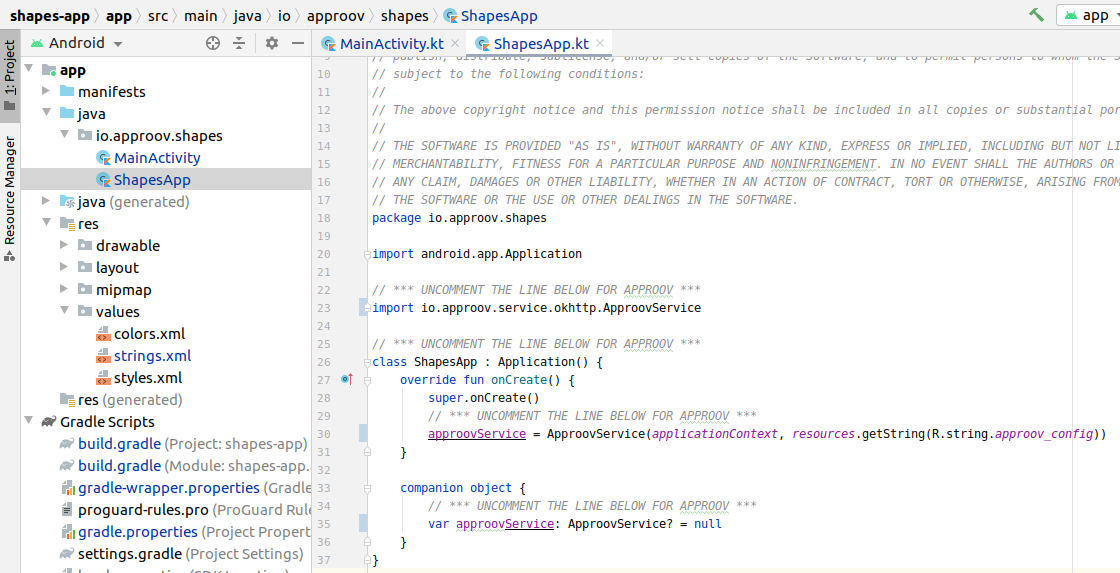
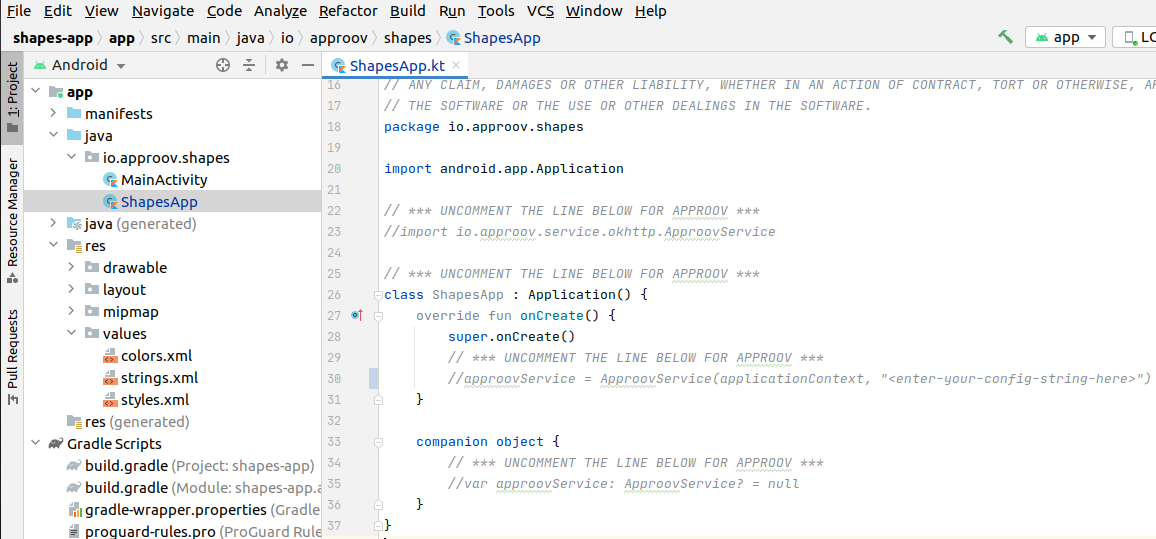
Use short init string

Changed region(s): [[0.0, 0.0, 1.0, 1.0], [0.3438, 0.8015, 0.7188, 0.9499]]

diff --git a/shapes-app/app/src/main/java/io/approov/shapes/ShapesApp.kt b/shapes-app/app/src/main/java/io/approov/shapes/ShapesApp.kt
@@ -27,7 +27,7 @@ class ShapesApp : Application() {
     override fun onCreate() {
         super.onCreate()
         // *** UNCOMMENT THE LINE BELOW FOR APPROOV ***
-        //approovService = ApproovService(applicationContext, resources.getString(R.string.approov_config))
+        //approovService = ApproovService(applicationContext, "<enter-your-config-string-here>")
     }
 
     companion object {

diff --git a/README.md b/README.md
@@ -2,6 +2,10 @@
 
 This quickstart is written specifically for native Android apps that are written in Kotlin and use [`OkHttp`](https://square.github.io/okhttp/) for making the API calls that you wish to protect with Approov. If this is not your situation then check if there is a more relevant quickstart guide available.
 
+This quickstart provides a step-by-step example of integrating Approov into an app using a simple `Shapes` example that shows a geometric shape based on a request to an API backend that can be protected with Approov.
+
+It is also possible to use Approov in `Discovery` mode to perform an initial assessment of your app user base and whether there are requests being made to your backend API that are not coming from your mobile apps. This mode allows a simpler initial integration. If you wish to implement this first then follow the steps [here](https://github.com/approov/approov-service-okhttp) up to and including the `Discovery Mode` section.
+
 ## WHAT YOU WILL NEED
 * Access to a trial or paid Approov account
 * The `approov` command line tool [installed](https://approov.io/docs/latest/approov-installation/) with access to your account
@@ -66,6 +70,8 @@ implementation 'com.github.approov:approov-service-okhttp:x.y.z'
 
 You can see the latest in the `README` at [`approov-service-okhttp`](https://github.com/approov/approov-service-okhttp).
 
+Make sure you do a Gradle sync (by selecting `Sync Now` in the banner at the top of the modified `.gradle` file) after making these changes.
+
 Note that `approov-service-okhttp` is actually an open source wrapper layer that allows you to easily use Approov with `OkHttp`. This has a further dependency to the closed source Approov SDK itself.
 
 ## ENSURE THE SHAPES API IS ADDED
@@ -76,18 +82,6 @@ approov api -add shapes.approov.io
 ```
 Tokens for this domain will be automatically signed with the specific secret for this domain, rather than the normal one for your account.
 
-## SETUP YOUR APPROOV CONFIGURATION
-
-The Approov SDK needs a configuration string to identify the account associated with the app. Obtain it using:
-```
-approov sdk -getConfig initial-config.txt
-```
-Copy and paste the `initial-config.txt` file content into a new created `approov_config` string resource entry as shown (the actual entry will be much longer than shown).
-
-![Initial Config String](readme-images/initial-config.png)
-
-The app reads this string to initialize the Approov SDK.
-
 ## MODIFY THE APP TO USE APPROOV
 
 Uncomment the three lines of Approov initialization code in `io/approov/shapes/ShapesApp.kt`:
@@ -95,6 +89,13 @@ Uncomment the three lines of Approov initialization code in `io/approov/shapes/S
 ![Approov Initialization](readme-images/approov-init-code.png)
 
 This initializes Approov when the app is first created. It uses the configuration string we set earlier. A `public static` member allows other parts of the app to access the singleton Approov instance. All calls to `ApproovService` and the SDK itself are thread safe.
+
+The Approov SDK needs a configuration string to identify the account associated with the app. Obtain it using:
+
+```
+approov sdk -getConfigString
+```
+This will output a configuration string, something like `#123456#K/XPlLtfcwnWkzv99Wj5VmAxo4CrU267J1KlQyoz8Qo=`, that will identify your Approov account. Copy this into `io/approov/shapes/ShapesApp.kt:30`, replacing the text `<enter-your-config-string-here>`.
 
 Next we need to use Approov when we make request for the shapes. Only a single line of code needs to be changed at `io/approov/shapes/MainActivity.kt:113`:
 
